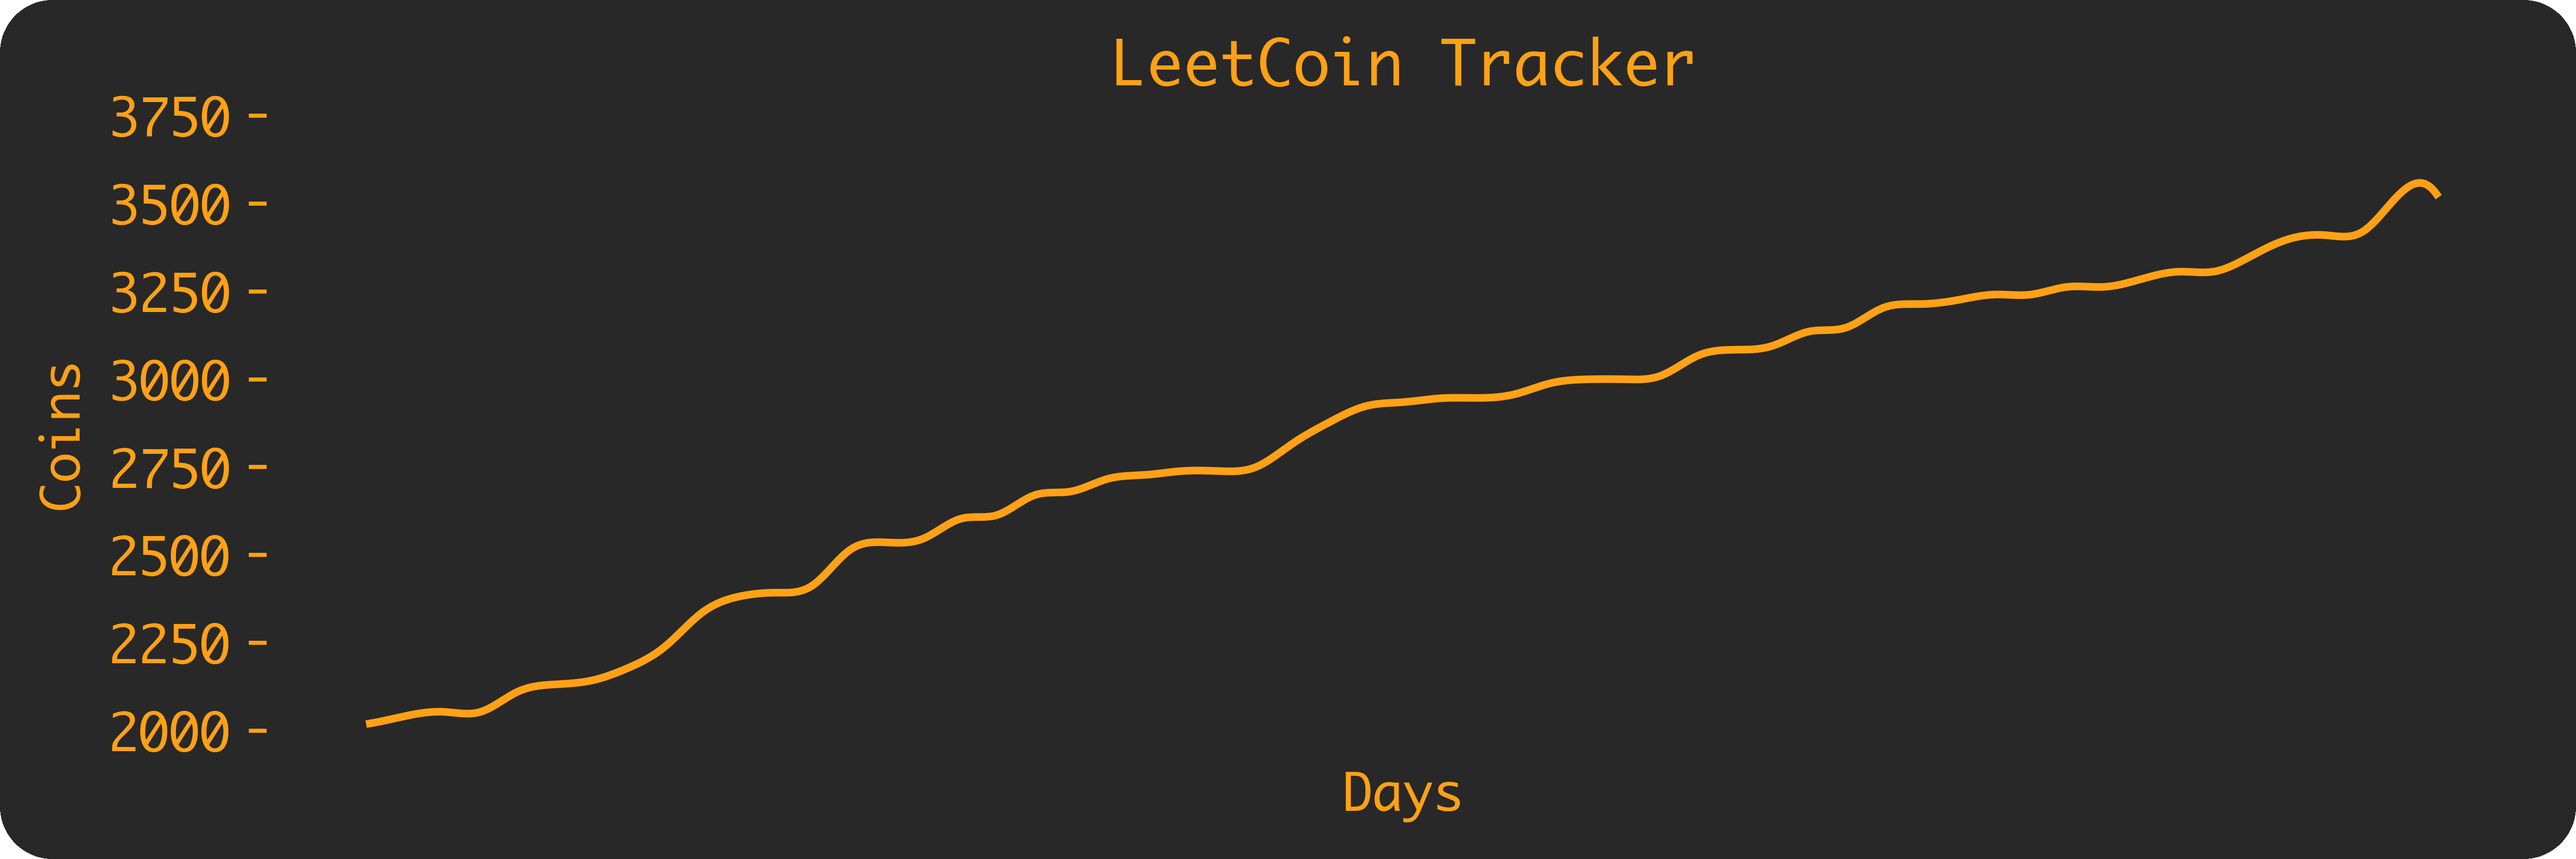
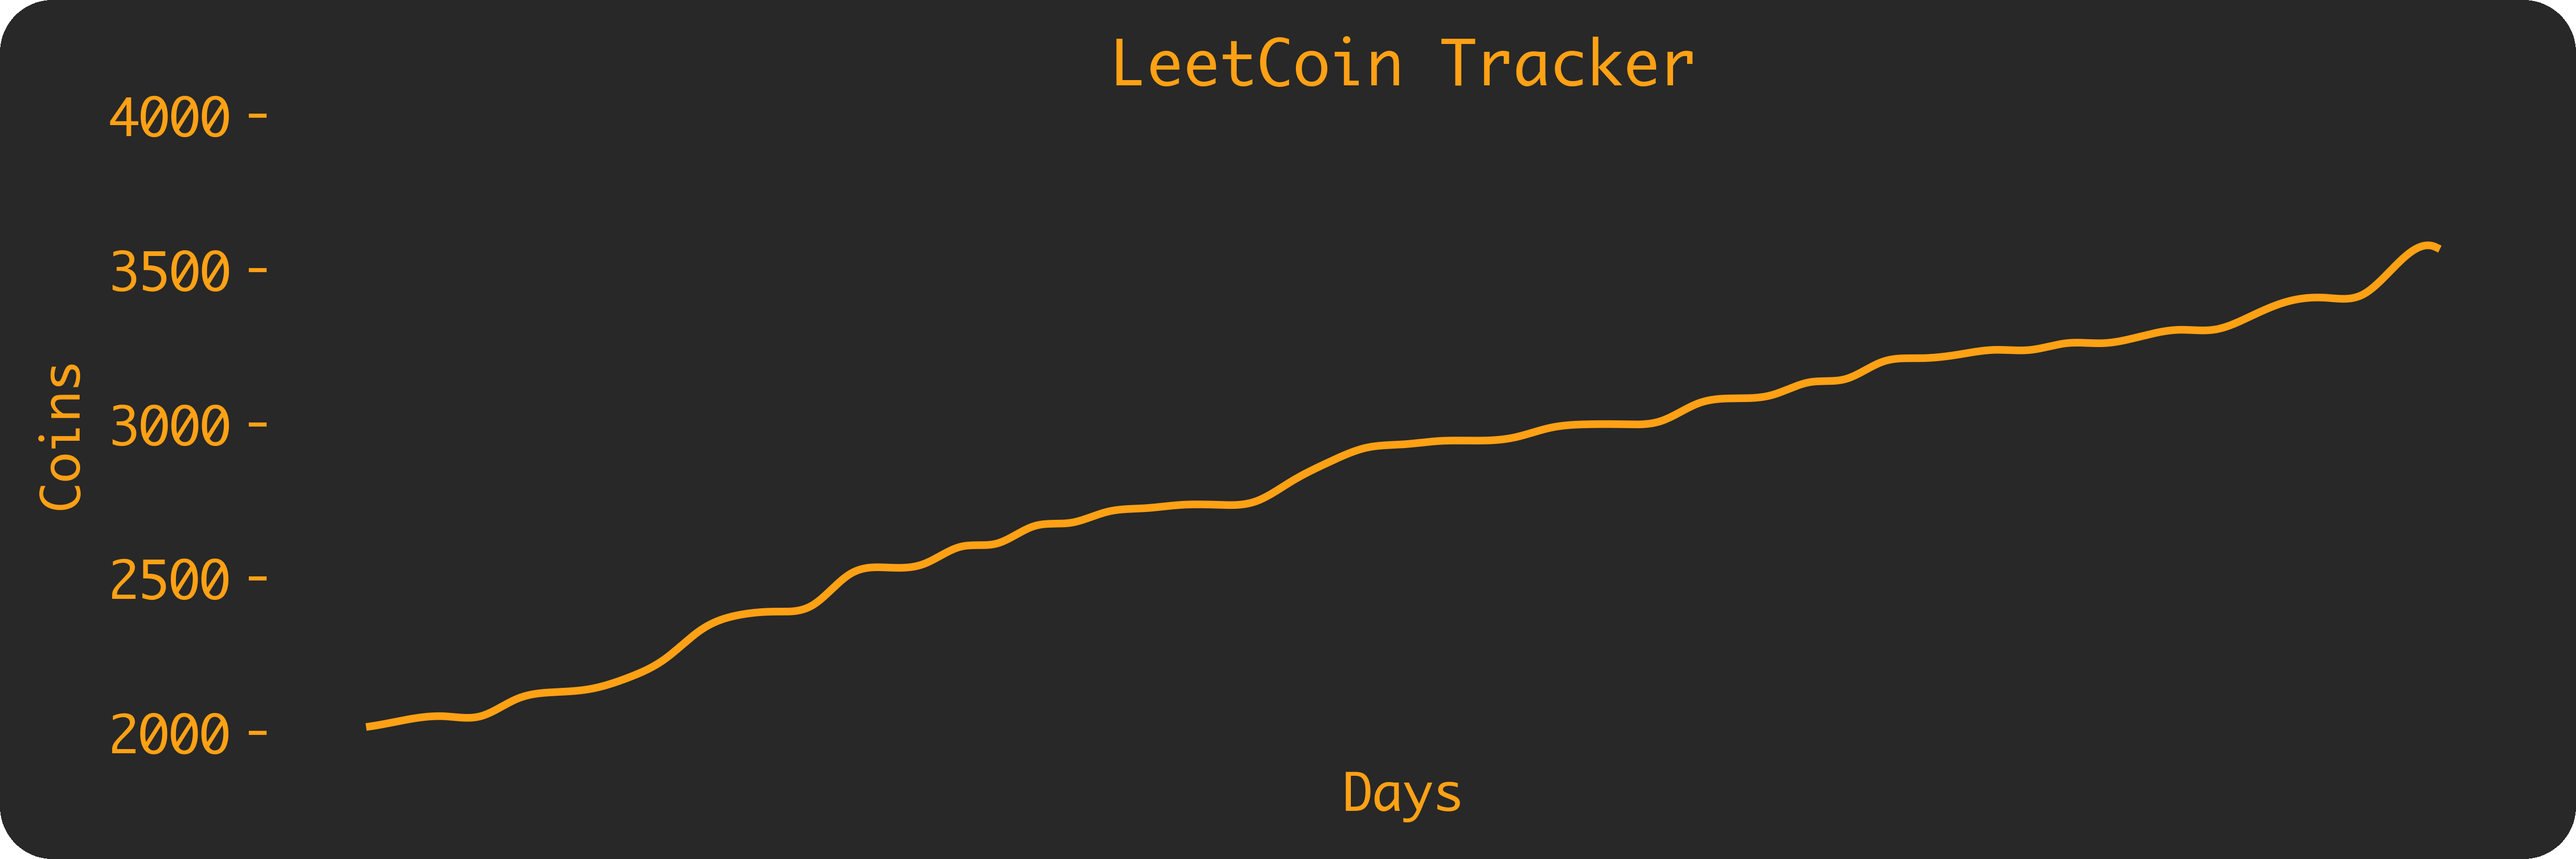
graph ticks

diff --git a/generate_graph.py b/generate_graph.py
@@ -42,7 +42,7 @@ def generate_graph(filename="data.csv"):
     plt.ylabel("Coins", fontname="Monaco")
     if max(y0) < 4000:
         plt.yticks(
-            np.arange(min(y0) // 250 * 250, max(y0) + 250, 250), fontname="Monaco"
+            np.arange(min(y0) // 500 * 500, max(y0) + 500, 500), fontname="Monaco"
         )
     else:
         plt.yticks(np.arange(min(y0) // 1000 * 1000 - 1000, max(y0) + 1000, 1000))
